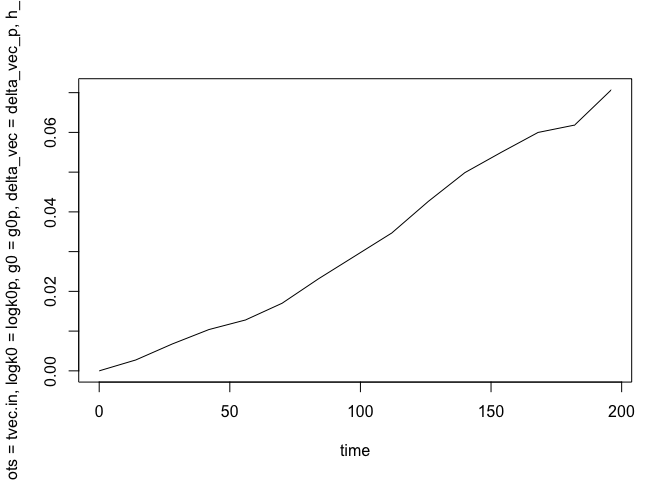
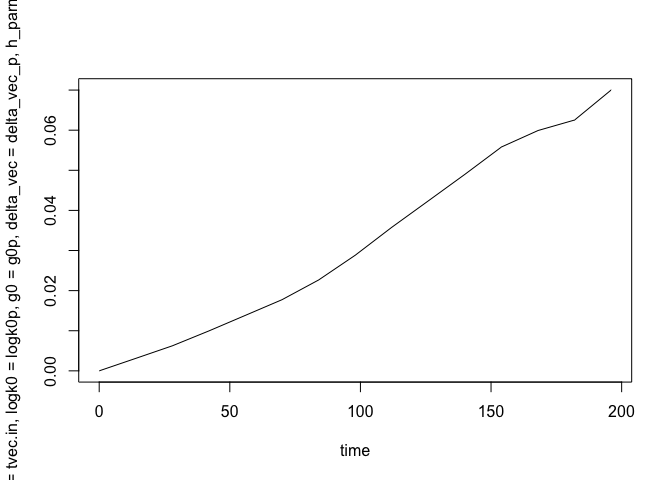
thru beta case pop-avg haz

diff --git a/README.md b/README.md
@@ -43,13 +43,14 @@ tvec.in <- c(7, seq(14,max(time)-14,length.out=14),max(time)-7)
 init.vals <- c(log(2.4), -10, rep( 0,length(tvec.in)))
 
 
-## fit F_alpha
+## fit F_alpha for a given H_PARM
+H_PARM <- 0.72
 fit_F_alpha <- function(x){mean((popavg_dist(time, 
                                             knots= tvec.in, 
                                             logk0=x[1], 
                                             g0=x[2], 
                                             delta_vec=x[-c(1,2)],
-                                            h_parm = 1,
+                                            h_parm = H_PARM,
                                             frailty="PS")  - F0)^2) }
 
 
@@ -59,16 +60,17 @@ plac_fit_F_alpha <-
         control=list(maxit=1e8))
 print(plac_fit_F_alpha)
 #> $par
-#>  [1]   0.5634471 -10.1156700  -0.6050857   0.1679388  -0.1957840  -0.4840228
-#>  [7]   0.4386202   0.7144927  -0.2086004  -0.2890240   0.1647068   0.5441700
-#> [13]  -0.7044185  -0.3194671   0.0513128  -0.6940473   0.7618653   1.5605713
+#>  [1]  -0.15799938 -10.12040145  -0.21508909   0.74768428   0.21589618
+#>  [6]   0.03136962  -0.15528469   0.27388947   0.35359469   0.20431276
+#> [11]  -0.03848921  -0.39518830   0.11877485  -0.05979150  -0.91393283
+#> [16]  -0.27749430   0.54807831   1.84013113
 #> 
 #> $value
-#> [1] 4.472874e-07
+#> [1] 1.831274e-07
 #> 
 #> $counts
 #> function gradient 
-#>     1363       NA 
+#>     1239       NA 
 #> 
 #> $convergence
 #> [1] 0
@@ -82,7 +84,7 @@ delta_vec_p =plac_fit_F_alpha$par[-1*c(1,2)]
   
 plot(time, 
      popavg_dist(time, knots=tvec.in, logk0=logk0p, g0=g0p, 
-                 delta_vec = delta_vec_p, h_parm=1, frailty="PS"),
+                 delta_vec = delta_vec_p, h_parm= H_PARM, frailty="PS"),
      type="l")
 ```
 
@@ -90,13 +92,19 @@ plot(time,
 
 ``` r
 
+## plot the pop-avg (marginal) hazard:
+plot(time,
+     popavg_haz(time, knots=tvec.in, logk0=logk0p, g0=g0p,
+                  delta_vec = delta_vec_p, h_parm= H_PARM),
+     type="l", ylim=c(0,1e-3))
+
 ## plot the subject-specific hazard, fit in the presence
 ## of the h_parm value:
 
-plot(time,
+lines(time,
      subjspec_haz(time, knots=tvec.in, logk0=logk0p, g0=g0p,
                   delta_vec = delta_vec_p),
-     type="l")
+     lty=2)
 ```
 
 <img src="man/figures/README-example_alpha-2.png" width="100%" />
@@ -120,13 +128,14 @@ F0 <- Pf.F0
 tvec.in <- c(7, seq(14,max(time)-14,length.out=14),max(time)-7)
 init.vals <- c(log(2.4), -10, rep( 0,length(tvec.in)))
 
-## fit F_beta
+## fit F_beta for a given H_PARM
+H_PARM <- 0.72
 fit_F_beta <- function(x){mean((popavg_dist(time, 
                                             knots= tvec.in, 
                                             logk0=x[1], 
                                             g0=x[2], 
                                             delta_vec=x[-c(1,2)],
-                                            h_parm = 1,
+                                            h_parm = H_PARM,
                                             frailty="GA")  - F0)^2) }
 
 
@@ -136,16 +145,17 @@ plac_fit_F_beta <-
         control=list(maxit=1e8))
 print(plac_fit_F_beta)
 #> $par
-#>  [1]  0.45007125 -9.92319241 -0.21806492 -0.12305034 -0.11011477 -0.01500168
-#>  [7]  0.31741269 -0.05562032 -0.11916903  0.43493734 -0.02658546 -0.12111867
-#> [13] -0.04767211 -0.35578863  0.01361462 -0.65382093  0.59235453  0.68610703
+#>  [1]   0.502079930 -10.040468476  -0.330061562   0.003865048  -0.336826948
+#>  [6]  -0.024383734   0.250173132   0.439016976  -0.255277225  -0.234803012
+#> [11]   1.061206688  -0.896795452   0.105126011  -0.138730813  -0.307526058
+#> [16]  -0.739420915   1.018565747   1.429820594
 #> 
 #> $value
-#> [1] 1.969299e-07
+#> [1] 4.750979e-07
 #> 
 #> $counts
 #> function gradient 
-#>      927       NA 
+#>      999       NA 
 #> 
 #> $convergence
 #> [1] 0
@@ -163,6 +173,25 @@ plot(time,
 ```
 
 <img src="man/figures/README-example_beta-1.png" width="100%" />
+
+``` r
+
+## plot the pop-avg (marginal) hazard:
+plot(time,
+     popavg_haz(time, knots=tvec.in, logk0=logk0p, g0=g0p,
+                  delta_vec = delta_vec_p, h_parm= H_PARM),
+     type="l", ylim=c(0,1e-3))
+
+## plot the subject-specific hazard, fit in the presence
+## of the h_parm value:
+
+lines(time,
+     subjspec_haz(time, knots=tvec.in, logk0=logk0p, g0=g0p,
+                  delta_vec = delta_vec_p),
+     lty=2)
+```
+
+<img src="man/figures/README-example_beta-2.png" width="100%" />
 
 ## Inverse Gaussian($1,\lambda$) Example
 
